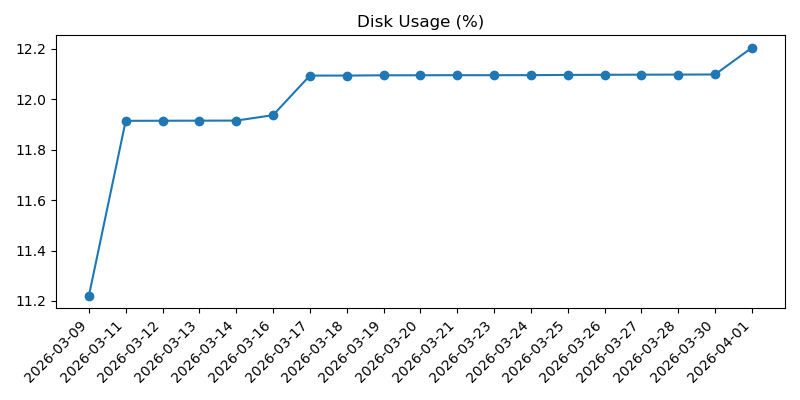
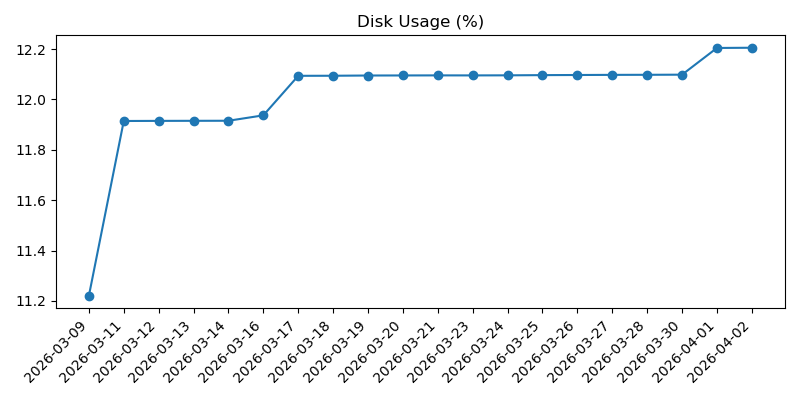
Add daily health and weather snapshot

Changed region(s): [[0.0625, 0.81, 0.9375, 0.96], [0.125, 0.09, 0.9375, 0.57], [0.0312, 0.09, 0.0625, 0.15]]

diff --git a/2026-04.md b/2026-04.md
@@ -34,3 +34,37 @@
 - Overall: Good
 - Warning: None
 
+## 2026-04-02 16:45:12
+
+### Machine
+- Uptime: up 2 days, 2 hours, 41 minutes
+- CPU load (1m, 5m, 15m): 0.00, 0.00, 0.00
+- RAM used: 164 MB / 921 MB (17.8%)
+- Disk used (/): 3.5 GB / 28.8 GB (12.2%)
+- Free disk space (/): 24.1 GB
+- CPU temp: 36.5°C
+- Voltage / throttling: OK
+
+### Reachability
+- Internet check (1.1.1.1): Reachable (3.4 ms)
+
+### Weather
+- Madrid:
+  - Condition: Despejado
+  - Max temp: 19°C
+  - Min temp: 6°C
+  - Feels like: 12°C
+  - Chance of rain: 0%
+  - Warnings: None reported
+- Barcelona:
+  - Condition: Poco nuboso
+  - Max temp: 18°C
+  - Min temp: 12°C
+  - Feels like: 16°C
+  - Chance of rain: 0%
+  - Warnings: None reported
+
+### Health
+- Overall: Good
+- Warning: None
+
